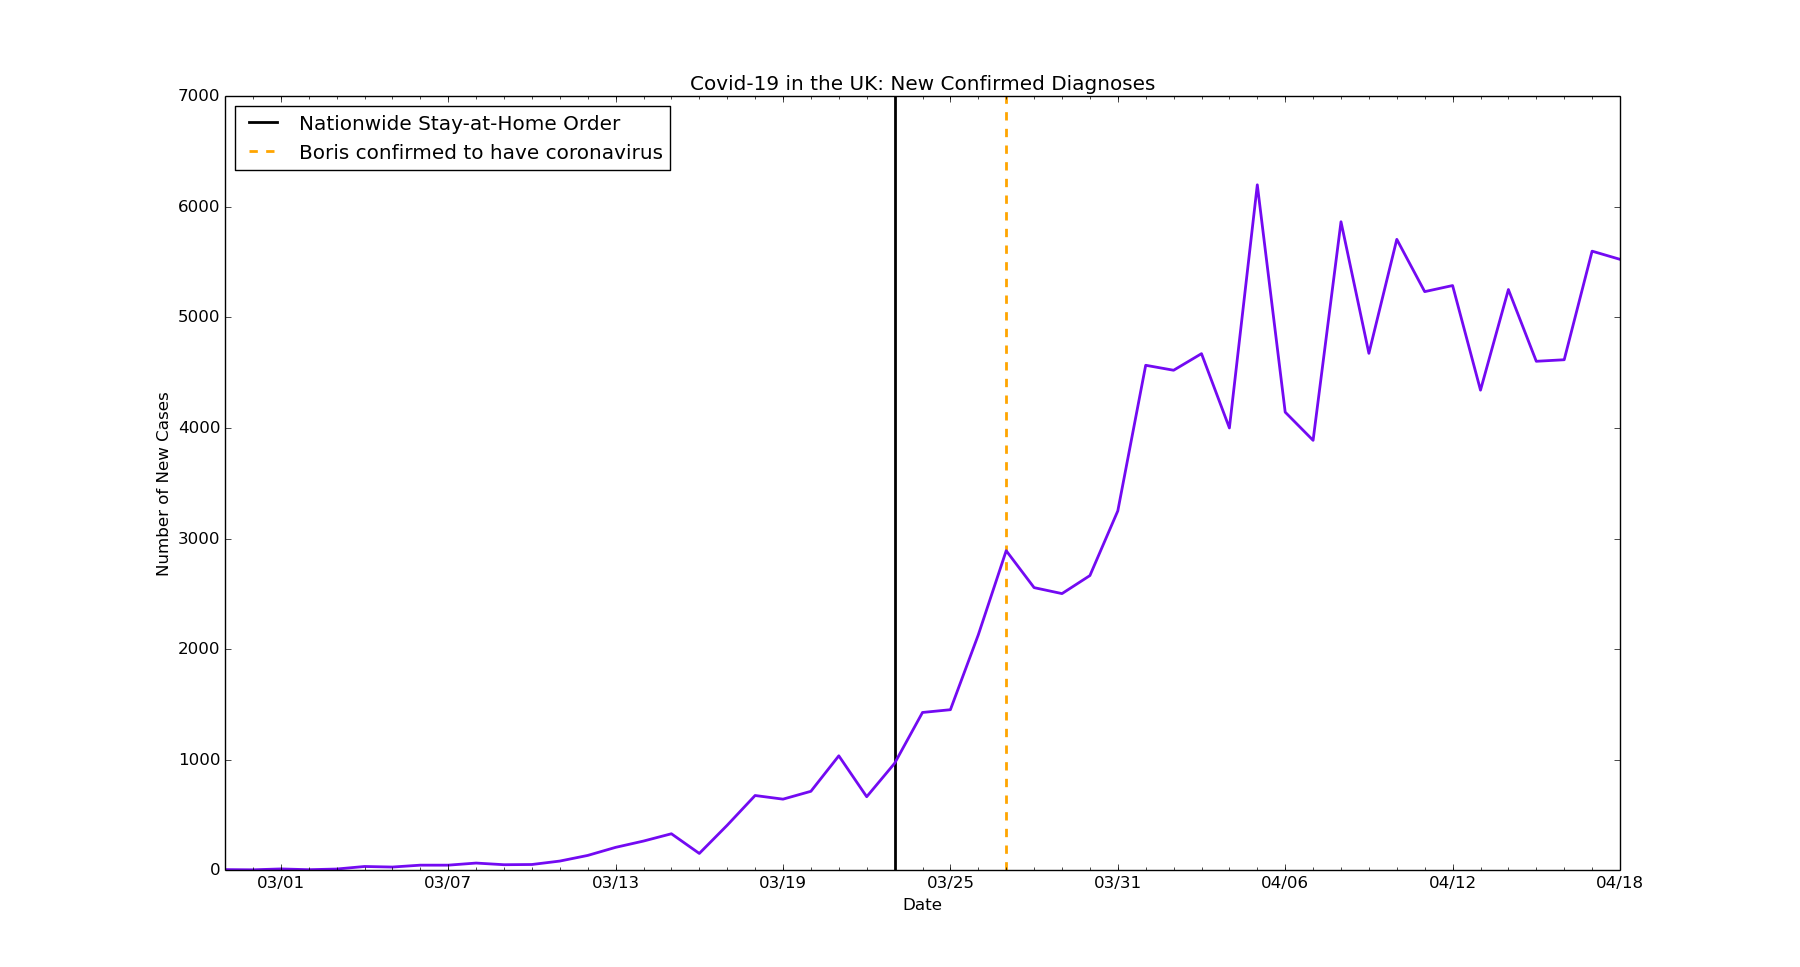
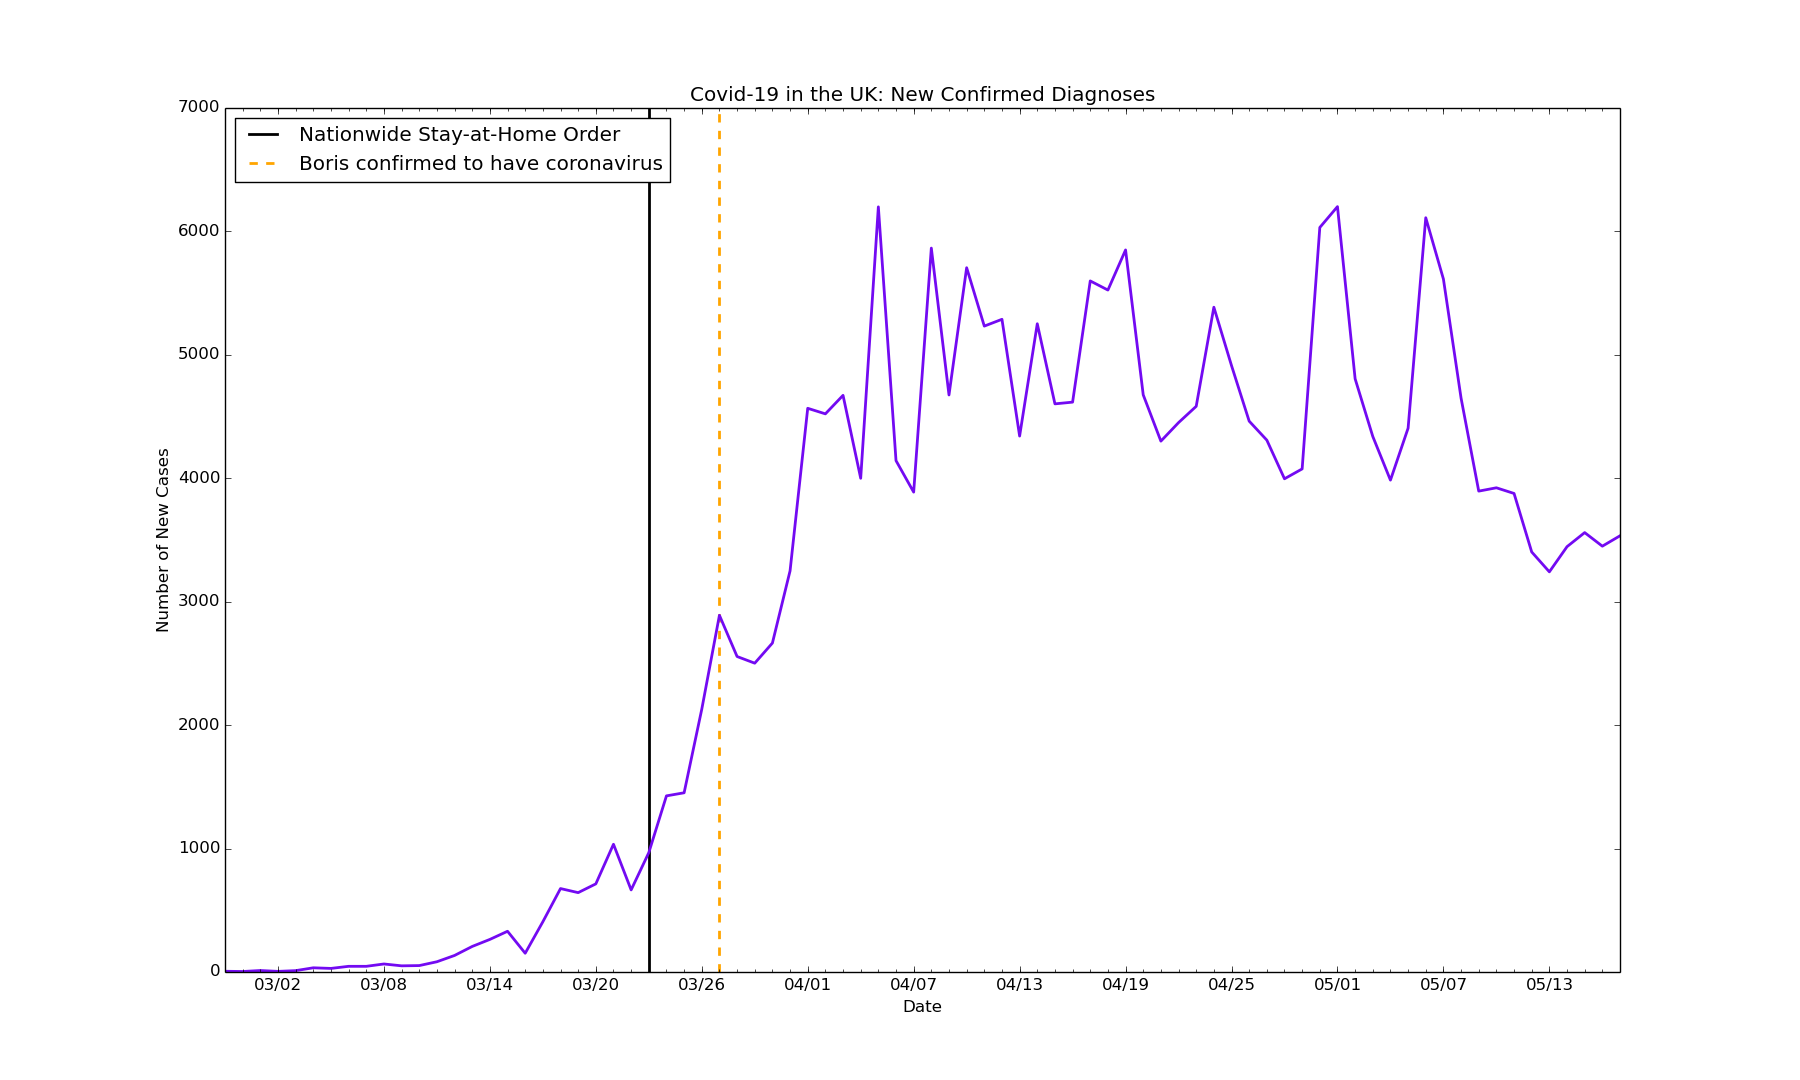
feat: Change European epicenter from Italy to the UK

diff --git a/uk/uk-new.py b/uk/uk-new.py
@@ -4,7 +4,7 @@ import matplotlib.dates as mdates
 import matplotlib.ticker as ticker
 from matplotlib.dates import MO, TU, WE, TH, FR, SA, SU
 
-dates = ['2/28/2020', '2/29/2020', '3/1/2020', '3/2/2020', '3/3/2020', '3/4/2020', '3/5/2020', '3/6/2020', '3/7/2020', '3/8/2020', '3/9/2020', '3/10/2020', '3/11/2020', '3/12/2020', '3/13/2020', '3/14/2020', '3/15/2020', '3/16/2020', '3/17/2020', '3/18/2020', '3/19/2020', '3/20/2020', '3/21/2020', '3/22/2020', '3/23/2020', '3/24/2020', '3/25/2020', '3/26/2020', '3/27/2020', '3/28/2020', '3/29/2020', '3/30/2020', '3/31/2020', '4/1/2020', '4/2/2020', '4/3/2020', '4/4/2020', '4/5/2020', '4/6/2020', '4/7/2020', '4/8/2020', '4/9/2020', '4/10/2020', '4/11/2020', '4/12/2020', '4/13/2020', '4/14/2020', '4/15/2020', '4/16/2020', '4/17/2020', '4/18/2020']
+dates = ['2/28/2020', '2/29/2020', '3/1/2020', '3/2/2020', '3/3/2020', '3/4/2020', '3/5/2020', '3/6/2020', '3/7/2020', '3/8/2020', '3/9/2020', '3/10/2020', '3/11/2020', '3/12/2020', '3/13/2020', '3/14/2020', '3/15/2020', '3/16/2020', '3/17/2020', '3/18/2020', '3/19/2020', '3/20/2020', '3/21/2020', '3/22/2020', '3/23/2020', '3/24/2020', '3/25/2020', '3/26/2020', '3/27/2020', '3/28/2020', '3/29/2020', '3/30/2020', '3/31/2020', '4/1/2020', '4/2/2020', '4/3/2020', '4/4/2020', '4/5/2020', '4/6/2020', '4/7/2020', '4/8/2020', '4/9/2020', '4/10/2020', '4/11/2020', '4/12/2020', '4/13/2020', '4/14/2020', '4/15/2020', '4/16/2020', '4/17/2020', '4/18/2020', '4/19/2020', '4/20/2020', '4/21/2020', '4/22/2020', '4/23/2020', '4/24/2020', '4/25/2020', '4/26/2020', '4/27/2020', '4/28/2020', '4/29/2020', '4/30/2020', '5/1/2020', '5/2/2020', '5/3/2020', '5/4/2020', '5/5/2020', '5/6/2020', '5/7/2020', '5/8/2020', '5/9/2020', '5/10/2020', '5/11/2020', '5/12/2020', '5/13/2020', '5/14/2020', '5/15/2020', '5/16/2020', '5/17/2020']
 
 # format dates
 x_values = [dt.datetime.strptime(d, "%m/%d/%Y").date() for d in dates]
@@ -26,7 +26,7 @@ plt.axvline(dt.datetime(2020, 3, 23), color='black', linewidth=2, label='stay at
 plt.axvline(dt.datetime(2020, 3, 27), linestyle='--', color='orange', linewidth=2, label='boris')
 
 # new cases by day
-new_cases = [6, 4, 12, 5, 11, 34, 29, 46, 46, 65, 50, 52, 83, 134, 207, 264, 330, 152, 407, 676, 643, 714, 1035, 665, 967, 1427, 1452, 2129, 2890, 2556, 2502, 2665, 3250, 4567, 4522, 4672, 4000, 6199, 4143, 3888, 5865, 4675, 5706, 5233, 5288, 4342, 5252, 4603, 4617, 5599, 5525]
+new_cases = [6, 4, 12, 5, 11, 34, 29, 46, 46, 65, 50, 52, 83, 134, 207, 264, 330, 152, 407, 676, 643, 714, 1035, 665, 967, 1427, 1452, 2129, 2890, 2556, 2502, 2665, 3250, 4567, 4522, 4672, 4000, 6199, 4143, 3888, 5865, 4675, 5706, 5233, 5288, 4342, 5252, 4603, 4617, 5599, 5525, 5850, 4676, 4301, 4451, 4583, 5386, 4913, 4463, 4309, 3996, 4076, 6032, 6201, 4806, 4339, 3985, 4406, 6111, 5614, 4649, 3896, 3923, 3877, 3403, 3242, 3446, 3560, 3450, 3534]
 
 # text labels
 plt.title('Covid-19 in the UK: New Confirmed Diagnoses')

diff --git a/uk/uk-deaths.py b/uk/uk-deaths.py
@@ -4,7 +4,7 @@ import matplotlib.dates as mdates
 import matplotlib.ticker as ticker
 from matplotlib.dates import MO, TU, WE, TH, FR, SA, SU
 
-dates = ['3/13/2020', '3/14/2020', '3/15/2020', '3/16/2020', '3/17/2020', '3/18/2020', '3/19/2020', '3/20/2020', '3/21/2020', '3/22/2020', '3/23/2020', '3/24/2020', '3/25/2020', '3/26/2020', '3/27/2020', '3/28/2020', '3/29/2020', '3/30/2020', '3/31/2020', '4/1/2020', '4/2/2020', '4/3/2020', '4/4/2020', '4/5/2020', '4/6/2020', '4/7/2020', '4/8/2020', '4/9/2020', '4/10/2020', '4/11/2020', '4/12/2020', '4/13/2020', '4/14/2020', '4/15/2020', '4/16/2020', '4/17/2020', '4/18/2020']
+dates = ['3/4/2020', '3/5/2020', '3/6/2020', '3/7/2020', '3/8/2020', '3/9/2020', '3/10/2020', '3/11/2020', '3/12/2020', '3/13/2020', '3/14/2020', '3/15/2020', '3/16/2020', '3/17/2020', '3/18/2020', '3/19/2020', '3/20/2020', '3/21/2020', '3/22/2020', '3/23/2020', '3/24/2020', '3/25/2020', '3/26/2020', '3/27/2020', '3/28/2020', '3/29/2020', '3/30/2020', '3/31/2020', '4/1/2020', '4/2/2020', '4/3/2020', '4/4/2020', '4/5/2020', '4/6/2020', '4/7/2020', '4/8/2020', '4/9/2020', '4/10/2020', '4/11/2020', '4/12/2020', '4/13/2020', '4/14/2020', '4/15/2020', '4/16/2020', '4/17/2020', '4/18/2020', '4/19/2020', '4/20/2020', '4/21/2020', '4/22/2020', '4/23/2020', '4/24/2020', '4/25/2020', '4/26/2020', '4/27/2020', '4/28/2020', '4/29/2020', '4/30/2020', '5/1/2020', '5/2/2020', '5/3/2020', '5/4/2020', '5/5/2020', '5/6/2020', '5/7/2020', '5/8/2020', '5/9/2020', '5/10/2020', '5/11/2020', '5/12/2020', '5/13/2020', '5/14/2020', '5/15/2020', '5/16/2020', '5/17/2020']
 
 # format dates
 x_values = [dt.datetime.strptime(d, "%m/%d/%Y").date() for d in dates]
@@ -21,7 +21,7 @@ ax.xaxis.set_minor_locator(mdates.WeekdayLocator(byweekday=(MO, TU, WE, TH, FR, 
 ax.get_yaxis().set_major_formatter(ticker.FuncFormatter(lambda x, pos: format(int(x), ',')))
 
 # new deaths by day
-new_deaths = [2, 11, 14, 20, 16, 32, 41, 33, 56, 48, 54, 87, 156, 181, 260, 209, 180, 381, 563, 569, 684, 708, 619, 441, 786, 938, 881, 980, 917, 737, 717, 778, 761, 861, 847, 888, 596]
+new_deaths = [0, 1, 1, 0, 1, 4, 0, 2, 1, 18, 15, 22, 16, 34, 43, 36, 56, 35, 74, 149, 186, 183, 284, 294, 214, 374, 382, 670, 652, 714, 760, 644, 568, 1038, 1034, 1103, 1152, 839, 686, 744, 1044, 842, 1029, 935, 1115, 498, 559, 1172, 837, 727, 1005, 843, 420, 338, 909, 795, 674, 739, 621, 315, 288, 693, 649, 539, 626, 346, 268, 210, 627, 494, 428, 384, 468, 170, 160]
 
 # text labels
 plt.title('Covid-19 in the UK: New Fatalities')

diff --git a/README.md b/README.md
@@ -23,7 +23,7 @@ Data sourced from: [Wikipedia](https://en.wikipedia.org/wiki/2020_coronavirus_pa
 
 <br/>
 
-**Key Insights for Italy:**
-![Italy New Cases](./italy/it-nc.png)
-![Italy Recovery Rate vs Mortality Rate](./italy/it-r.png)
-Data sourced from: [Wikipedia](https://en.wikipedia.org/wiki/2020_coronavirus_pandemic_in_Italy)
+**Key Insights for the UK:**
+![UK New Cases](./uk/uk-nc.png)
+![UK New Deaths](./uk/uk-nd.png)
+Data sourced from: [Wikipedia](https://en.wikipedia.org/wiki/Timeline_of_the_2020_coronavirus_pandemic_in_the_United_Kingdom)
